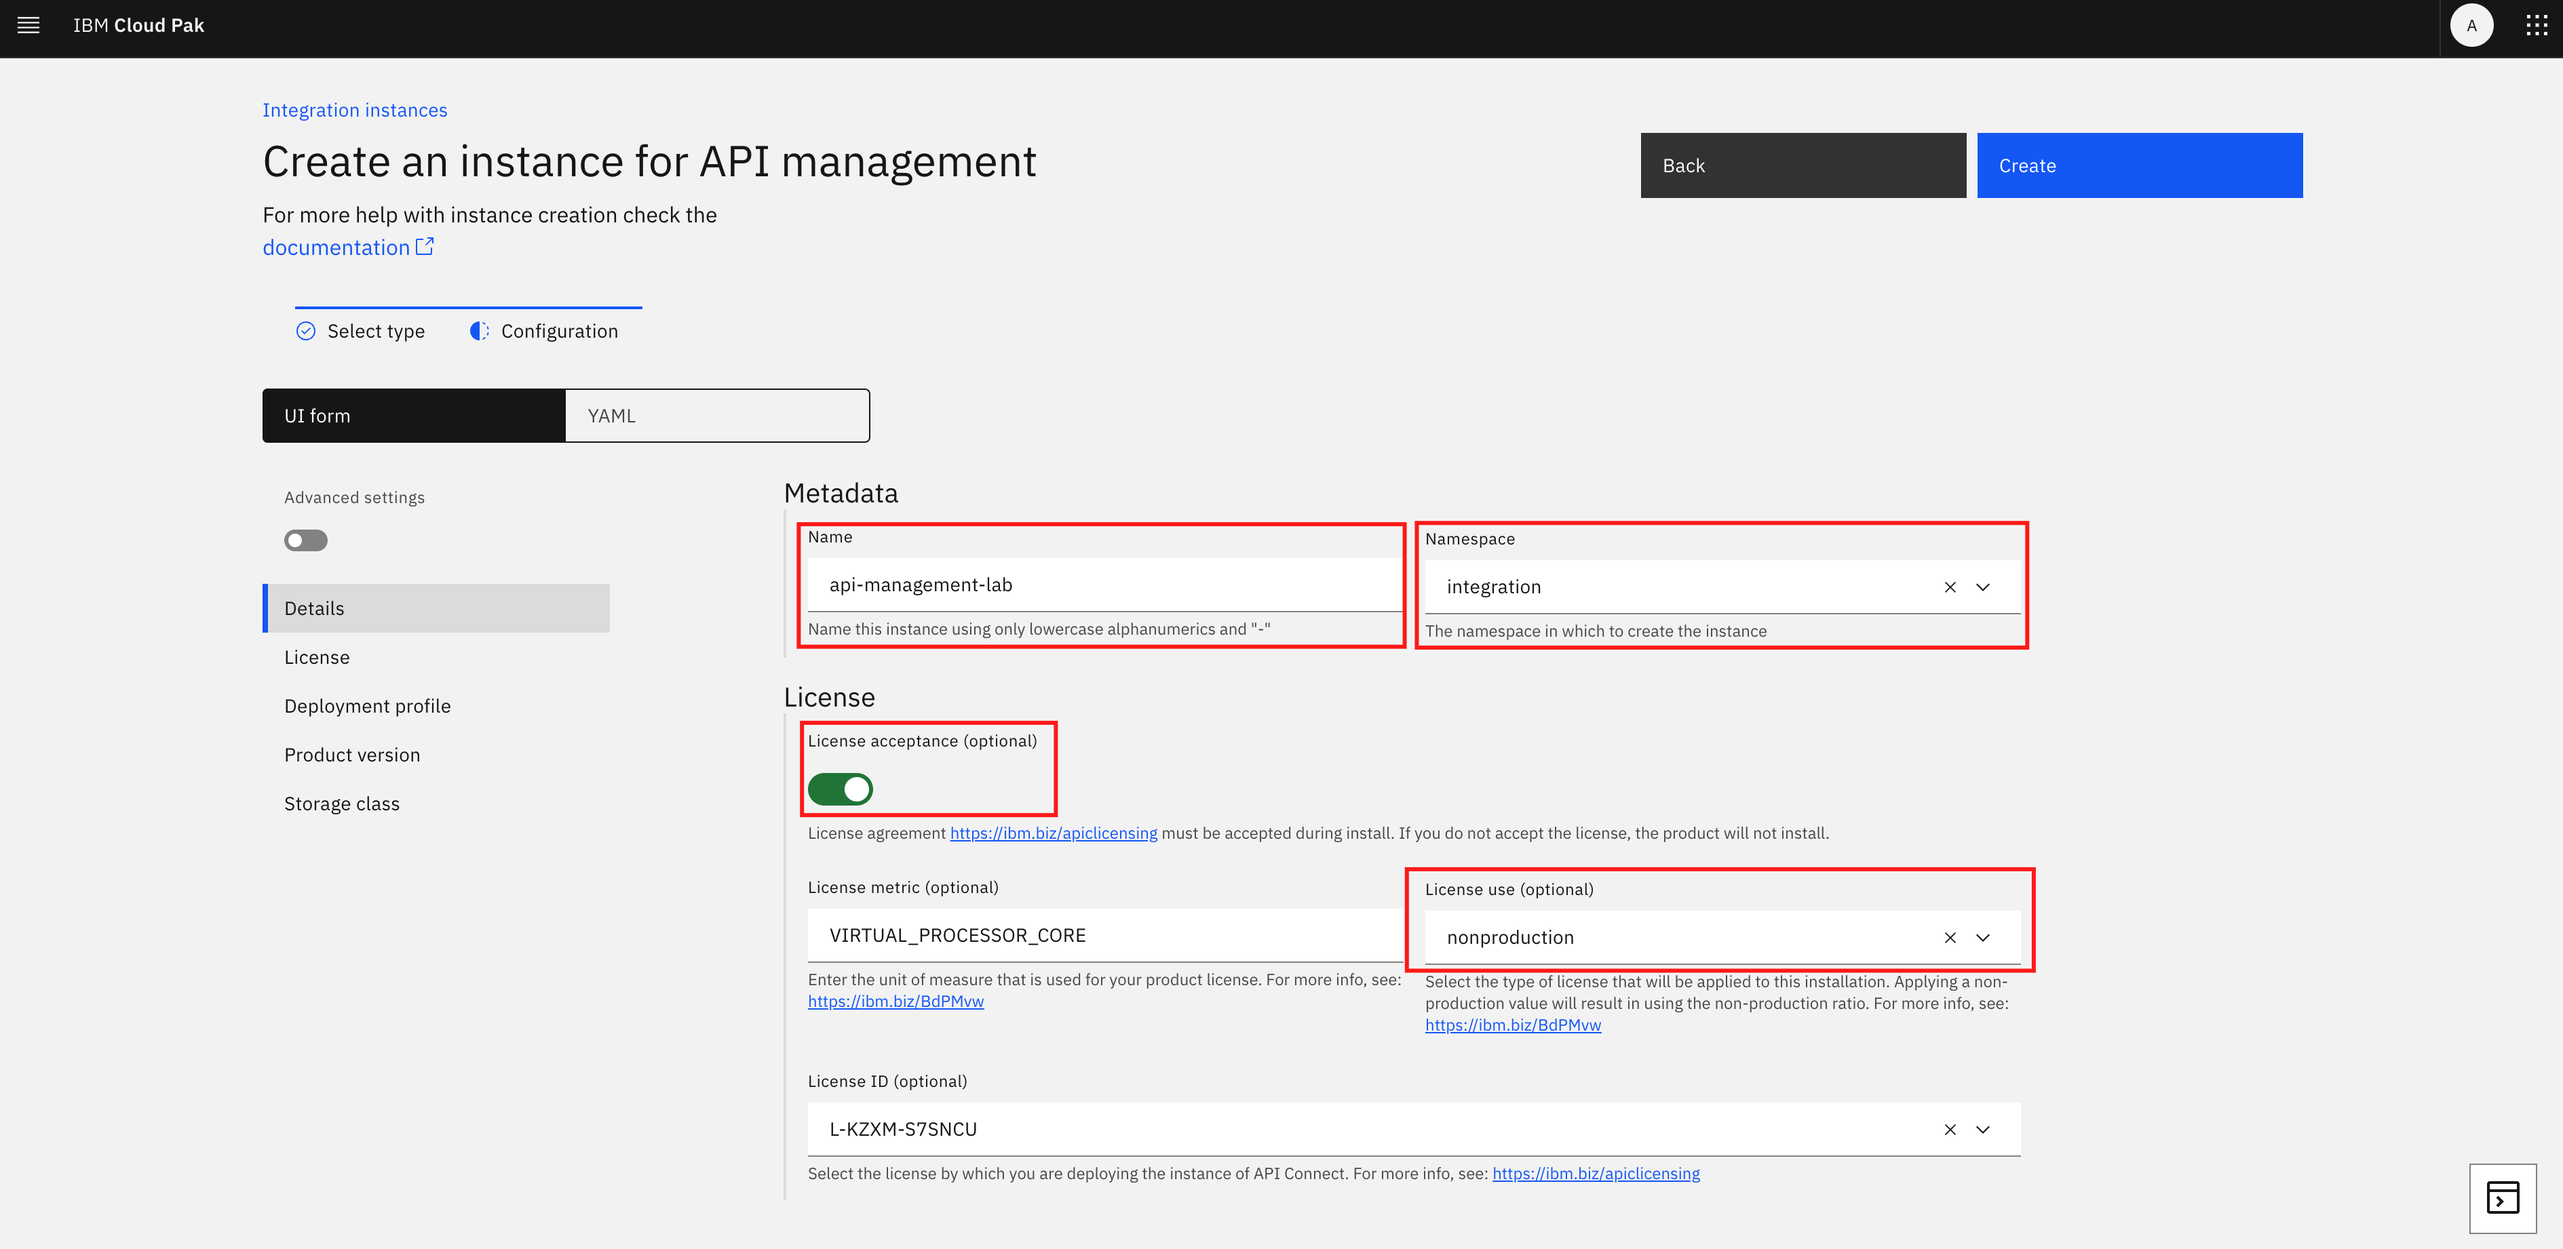
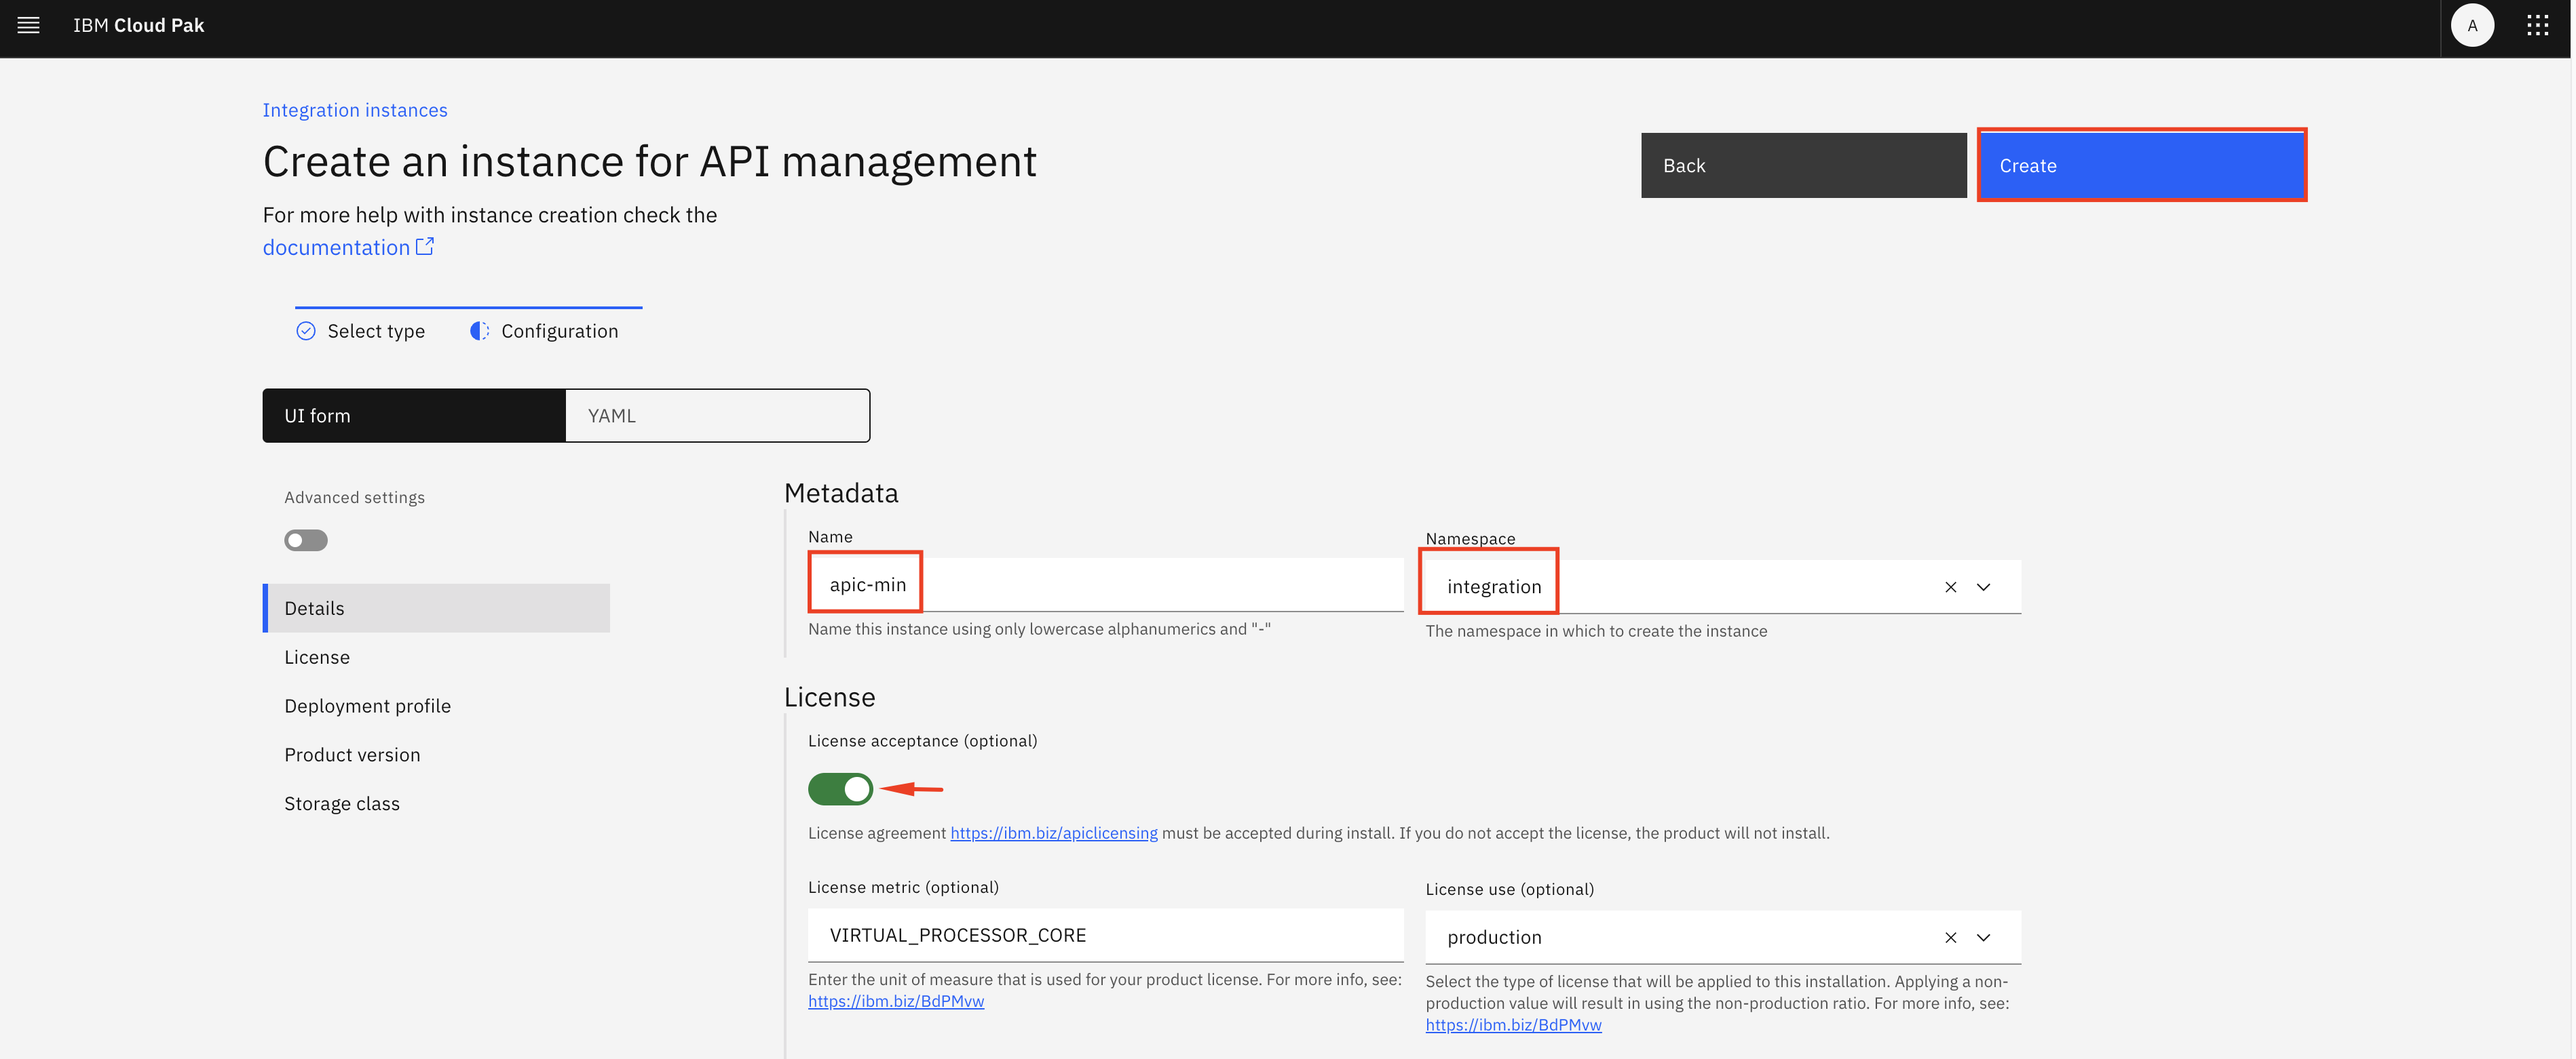
fix: add missing image

diff --git a/instructions/Lab0/index.md b/instructions/Lab0/index.md
@@ -129,11 +129,11 @@ Create API Connect Instances
 
    ![](images/cloud_small_replica.png)
 
-6. At the configuration page, select integration as the namespace. Check the license acceptance button. Leave the other settings to their default values and submit.
+6. At the configuration page, select integration as the namespace. You can also rename the instance as "apic-min". Check the license acceptance button. Leave the other settings to their default values and click "Create".
 
    ![](images/create_api_management_instance.png)
 
-7. A new API management (API Connect) instance will be provisioned. You will see instances of API Gateway, API Manager and API management Administration (Cloud Manager). The instance will be ready in approximately 30 minutes.
+7. A new API management (API Connect) instance will be provisioned. You will see instances of API-managed enterprise gateway, API management and API management administration (Cloud Manager). The instance will be ready in approximately 30 minutes.
 
    //todo put newly provisioned picture here
 
